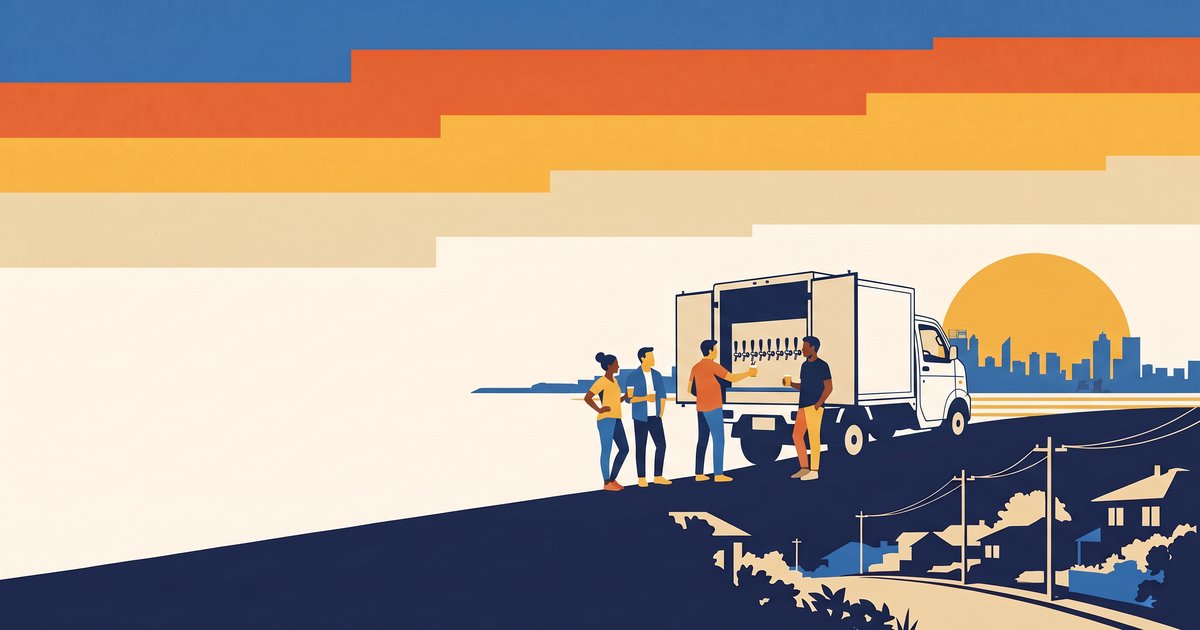
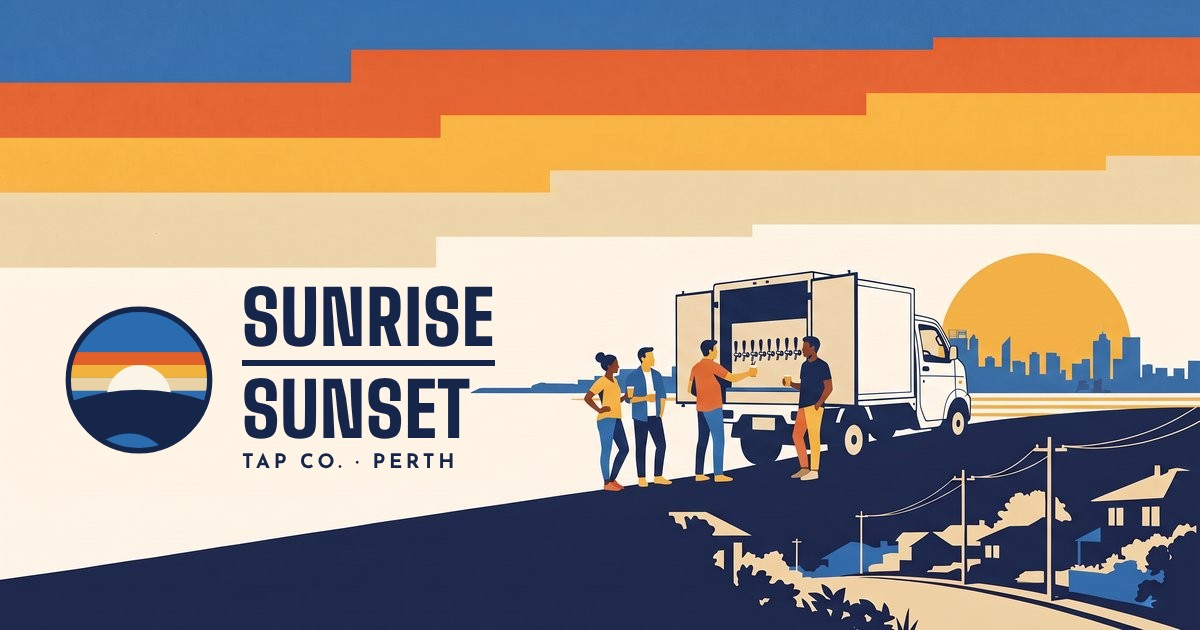
feat: add roundel and wordmark to share image
public/og.jpg now carries the logo lockup (roundel, SUNRISE / rule /
SUNSET, TAP CO. · PERTH) in the empty dawn sky of the existing
lithograph. Colin picked option A of four previews.
The OG alt text in app/layout.tsx now names the logo.
Rendered at 1200x630 from HTML with the Golden Hour inks and fonts.
Verified: npm run typecheck, npm test (40 passed), npm run build.

Claude-Session: https://claude.ai/code/session_019fApjuywwp9hy9cA512ama

Changed region(s): [[0.0308, 0.4524, 0.4317, 0.754]]

diff --git a/app/layout.tsx b/app/layout.tsx
@@ -12,7 +12,7 @@ export const metadata: Metadata = {
   title: "Sunrise Sunset Tap Co. · 8-tap beer truck hire, Perth",
   description: "Hire a tiny vintage tap truck for your wedding, party or event. Eight cold taps, delivered and collected anywhere in the Perth metro area.",
   metadataBase: new URL(process.env.VERCEL_PROJECT_PRODUCTION_URL ? `https://${process.env.VERCEL_PROJECT_PRODUCTION_URL}` : "http://localhost:3000"),
-  openGraph: { type: "website", locale: "en_AU", siteName: "Sunrise Sunset Tap Co.", images: [{ url: "/og.jpg", width: 1200, height: 630, alt: "Lithograph of friends at the rear taps of the tap truck on a hilltop at dawn" }] },
+  openGraph: { type: "website", locale: "en_AU", siteName: "Sunrise Sunset Tap Co.", images: [{ url: "/og.jpg", width: 1200, height: 630, alt: "Sunrise Sunset Tap Co. roundel and wordmark beside a lithograph of friends at the rear taps of the tap truck on a hilltop at dawn" }] },
 };
 
 export default function RootLayout({ children }: { children: React.ReactNode }) {
